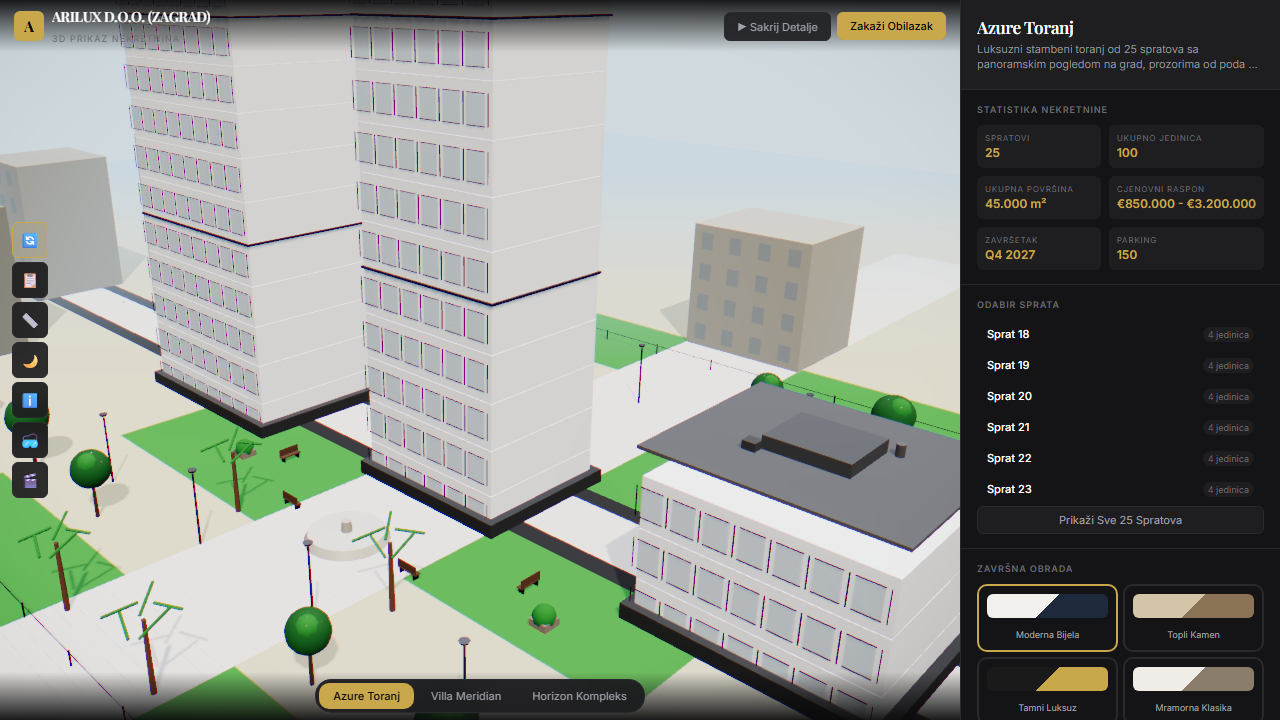
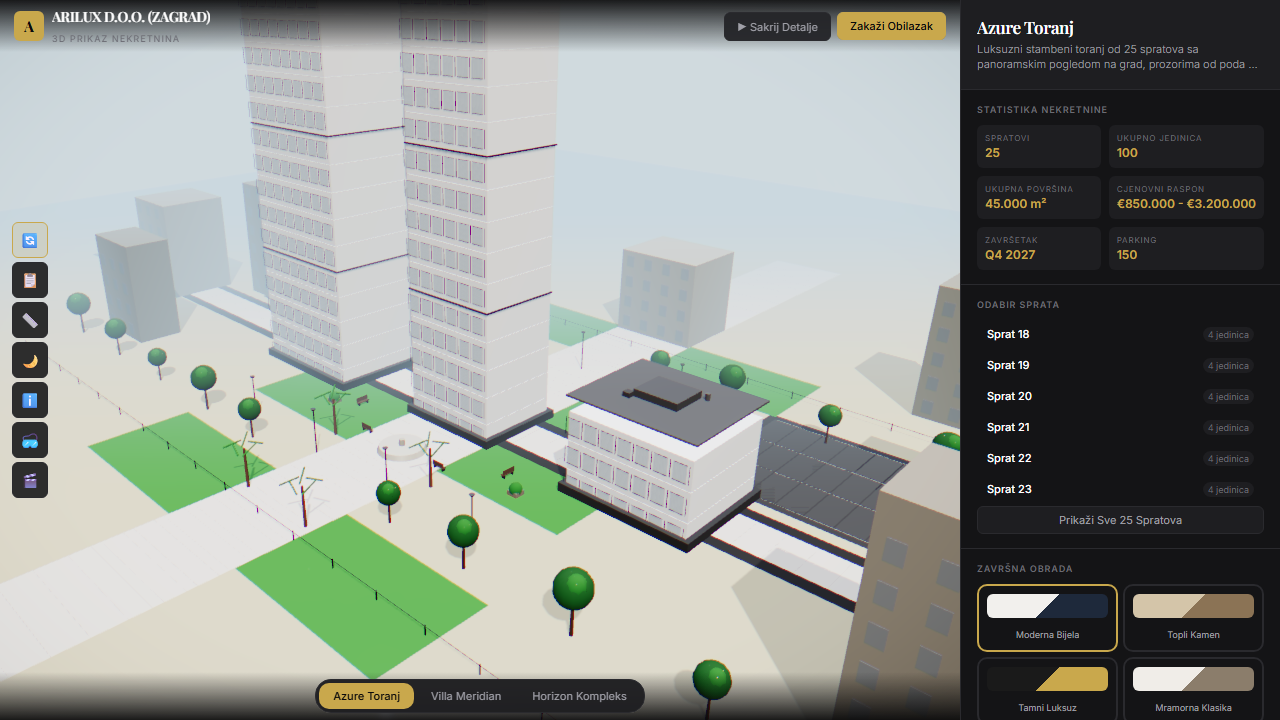
Udaljena kamera da sve 3 zgrade stanu u ekran

diff --git a/src/components/viewer/Scene.jsx b/src/components/viewer/Scene.jsx
@@ -106,11 +106,11 @@ export default function Scene() {
         makeDefault
         minPolarAngle={0.15}
         maxPolarAngle={Math.PI / 2.1}
-        minDistance={15}
-        maxDistance={80}
+        minDistance={20}
+        maxDistance={120}
         enableDamping
         dampingFactor={0.04}
-        target={[0, 8, 0]}
+        target={[0, 6, 0]}
       />
 
       <Effects isNight={isNightMode} />

diff --git a/src/App.jsx b/src/App.jsx
@@ -69,7 +69,7 @@ function ThreeCanvas() {
       <div className="canvas-container">
         <Canvas
           shadows
-          camera={{ position: [45, 32, 45], fov: 40, near: 0.1, far: 500 }}
+          camera={{ position: [65, 45, 65], fov: 45, near: 0.1, far: 500 }}
           gl={{ antialias: true, alpha: false, powerPreference: 'default', toneMapping: 4, toneMappingExposure: 1.1 }}
           dpr={[1, 2]}
           onCreated={({ gl }) => {